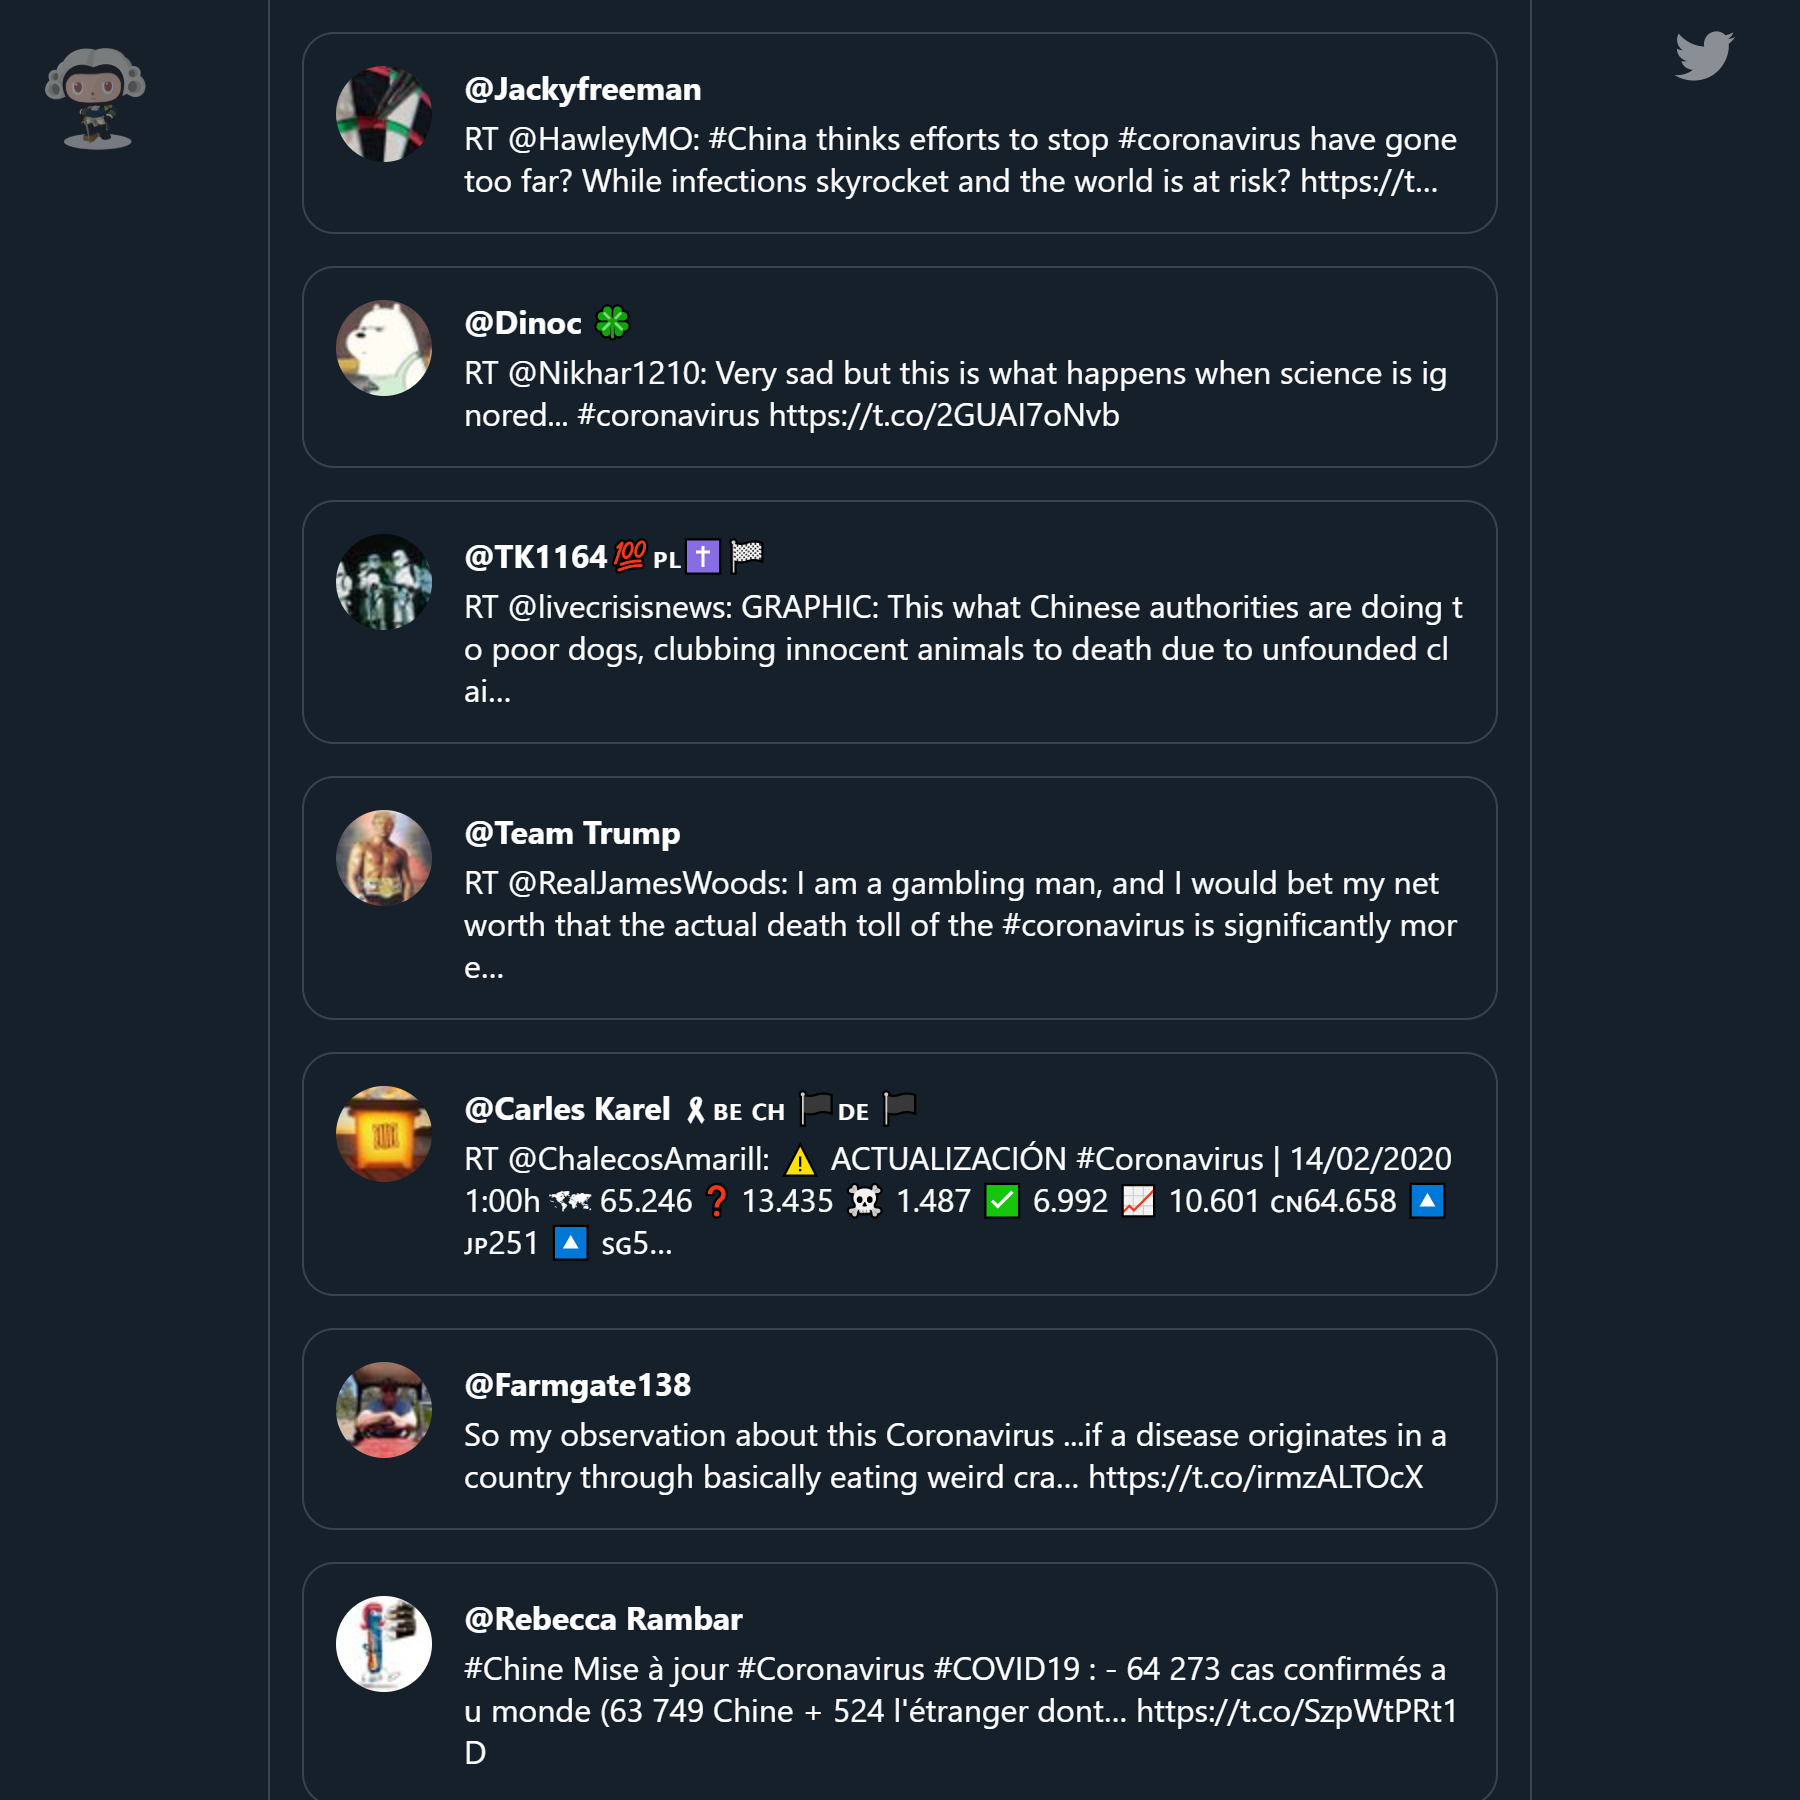
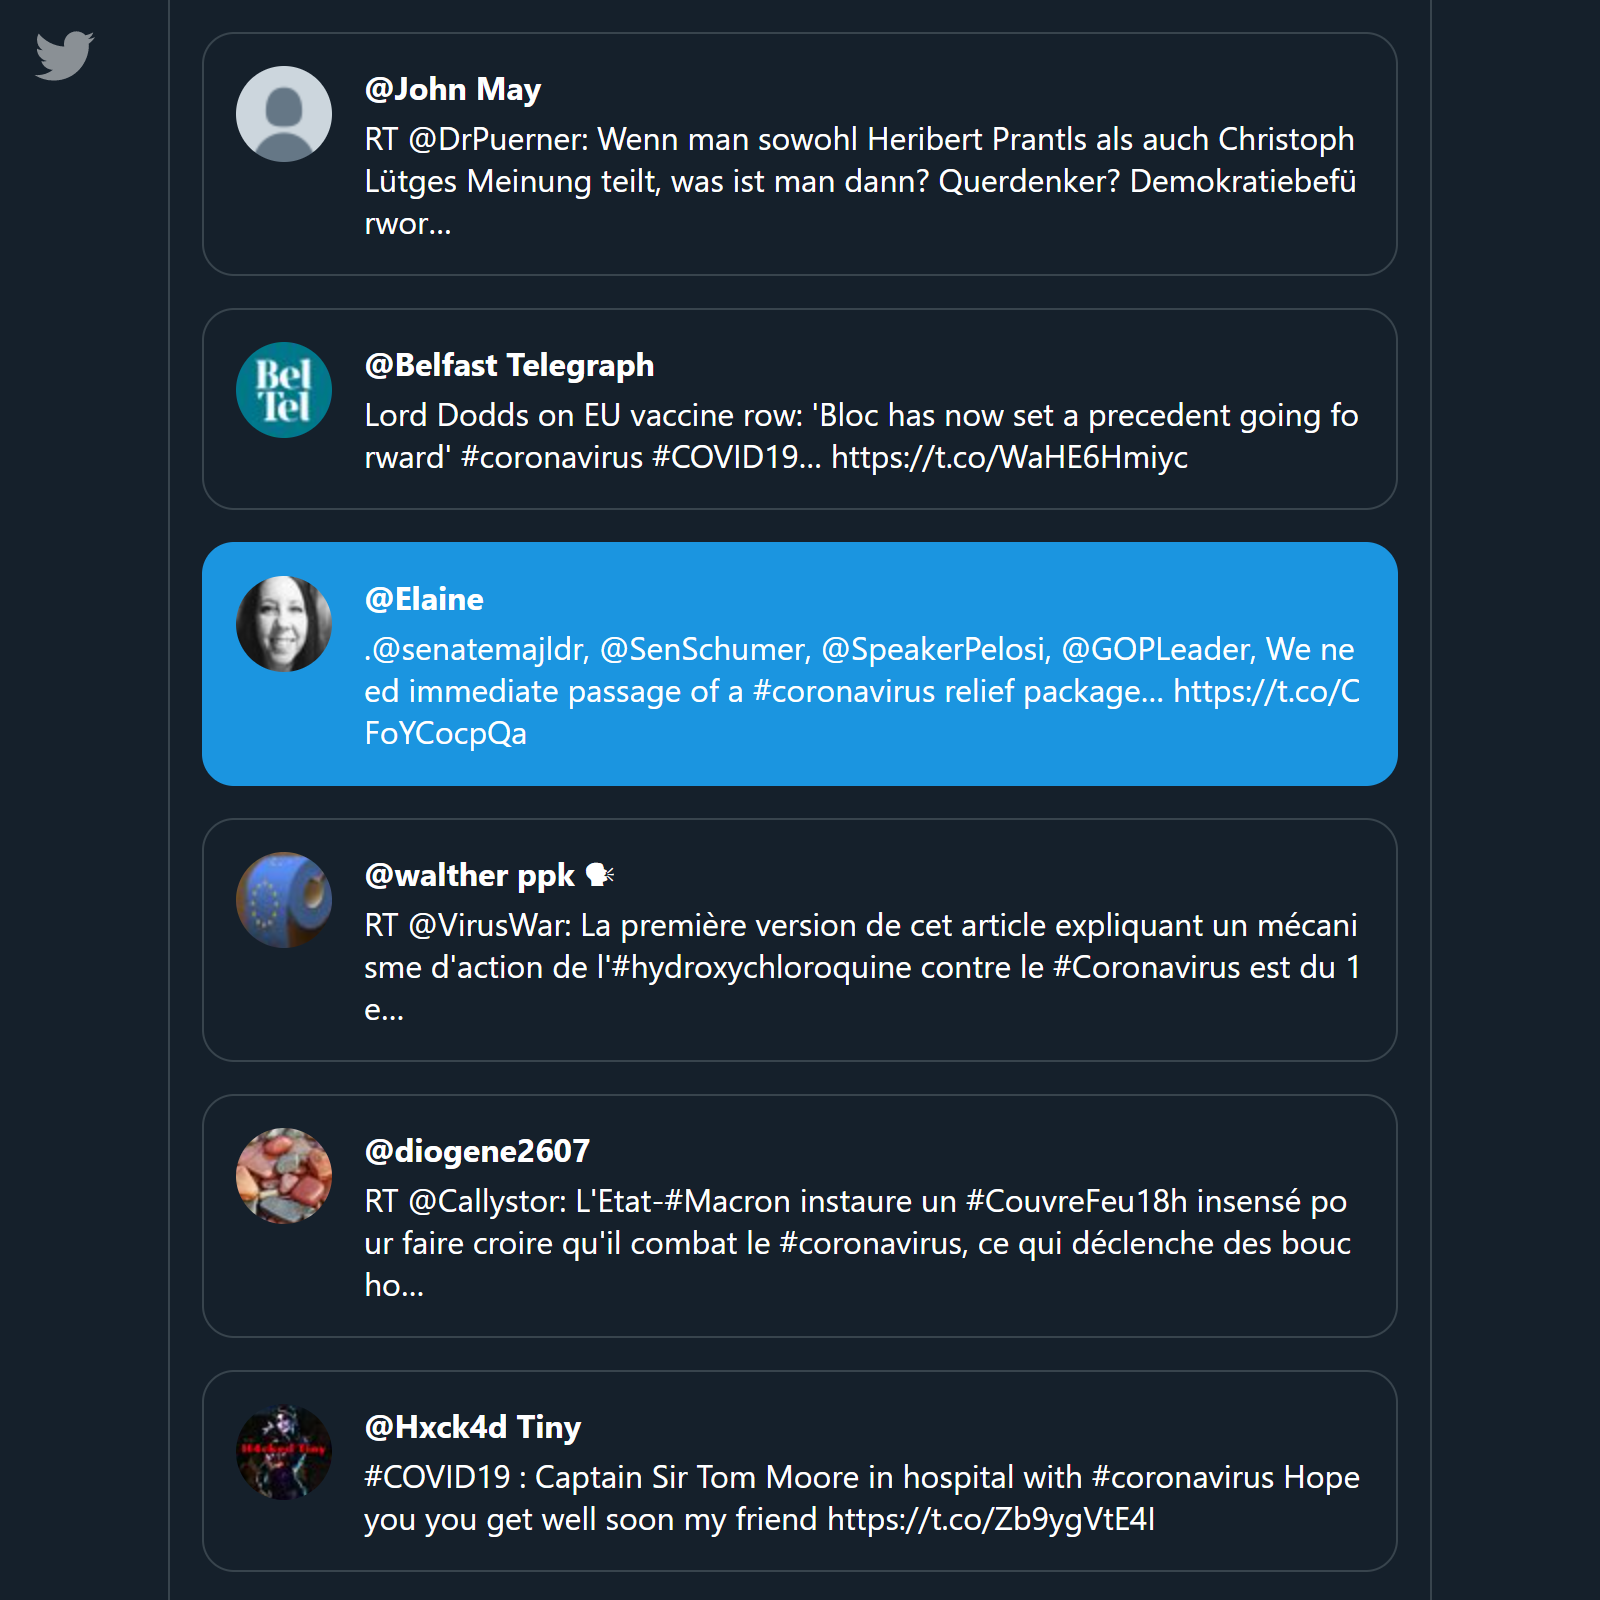
Update App.js

diff --git a/client/src/App.js b/client/src/App.js
@@ -3,10 +3,9 @@ import { useEffectOnce } from 'react-use';
 
 import { useStore } from './store';
 import { parseQueryString } from './utils';
-import { getToken, getTweets } from './api';
+import { getTweets, getTokenUtil, getTweetsUtil } from './api';
 
 import StyledApp from './App.styled';
-import Logo from './components/Logo';
 import Tweet from './components/Tweet';
 import Tweets from './components/Tweets';
 import TwitterLogo from './components/TwitterLogo';
@@ -21,35 +20,25 @@ function App({ initialState }) {
 
   useEffectOnce(() => {
     (async () => {
-      const {
-        data: { access_token: accessToken }
-      } = await getToken();
+      const accessToken = state.token || (await getTokenUtil());
       setToken(accessToken);
-      const {
-        data: {
-          statuses: tweets,
-          search_metadata: { next_results: nextResults }
-        }
-      } = await getTweets({ accessToken });
+      const response = await getTweets({ accessToken });
+      const { tweets, nextResults } = getTweetsUtil(response);
       setTweets({ tweets, nextResults });
     })();
   });
 
-  const handleScroll = async event => {
+  const handleScroll = async (event) => {
     const clientHeight = parseInt(event.target.clientHeight * SCROLL_SCALE);
     const scrollEnd =
       event.target.scrollHeight - event.target.scrollTop <= clientHeight;
     if (scrollEnd && state.nextResults && !state.isLoadingMore) {
       setIsLoadingMore(true);
-      const {
-        data: {
-          statuses: tweets,
-          search_metadata: { next_results: nextResults }
-        }
-      } = await getTweets({
+      const response = await getTweets({
         accessToken: state.token,
-        query: parseQueryString(state.nextResults)
+        query: parseQueryString(state.nextResults),
       });
+      const { tweets, nextResults } = getTweetsUtil(response);
       setIsLoadingMore(false);
       setTweets({ tweets, nextResults });
     }
@@ -57,16 +46,13 @@ function App({ initialState }) {
 
   return (
     <StyledApp onScroll={handleScroll}>
-      <Logo />
       <TwitterLogo />
       {state.isLoadingMore && <SmallLoader />}
       {state.tweets.length ? (
         <Tweets>
-          <React.Fragment>
-            {state.tweets.map(tweet => (
-              <Tweet {...tweet} key={tweet.id} />
-            ))}
-          </React.Fragment>
+          {state.tweets.map((tweet) => (
+            <Tweet {...tweet} key={tweet.id} />
+          ))}
         </Tweets>
       ) : (
         <Loader />

diff --git a/server/routes/token.js b/server/routes/token.js
@@ -7,8 +7,8 @@ var router = express.Router();
 const { TWITTER_OAUTH_API_PATH } = require('../config');
 
 /* GET bearer token */
-router.get('/', async function(req, res, next) {
-  const credentials = `${process.env.CONSUMER_API_KEY}:${process.env.CONSUMER_API_SECRET_KEY}`;
+router.get('/', async function (req, res, next) {
+  const credentials = `${process.env.CONSUMER_API_KEY}:${process.env.CONSUMER_API_KEY_SECRET}`;
   const credentialsBase64Encoded = new Buffer(credentials).toString('base64');
   try {
     const { data } = await axios({
@@ -16,9 +16,9 @@ router.get('/', async function(req, res, next) {
       method: 'post',
       headers: {
         Authorization: `Basic ${credentialsBase64Encoded}`,
-        'Content-Type': 'application/x-www-form-urlencoded;charset=UTF-8'
+        'Content-Type': 'application/x-www-form-urlencoded;charset=UTF-8',
       },
-      data: 'grant_type=client_credentials'
+      data: 'grant_type=client_credentials',
     });
     res.send(data);
   } catch (err) {

diff --git a/client/src/api.js b/client/src/api.js
@@ -7,12 +7,29 @@ export const getToken = () => axios.get(`${BASE_URL}/token`);
 export const getTweets = ({ accessToken, query, limit = 20 } = {}) =>
   axios.get(`${BASE_URL}/tweets`, {
     headers: {
-      Authorization: `Bearer ${accessToken}`
+      Authorization: `Bearer ${accessToken}`,
     },
     params: {
       q: '#coronavirus',
       include_entities: true,
       count: limit,
-      ...query
-    }
+      ...query,
+    },
   });
+
+export async function getTokenUtil() {
+  const {
+    data: { access_token: accessToken },
+  } = await getToken();
+  return accessToken;
+}
+
+export function getTweetsUtil(response) {
+  const {
+    data: {
+      statuses: tweets,
+      search_metadata: { next_results: nextResults },
+    },
+  } = response;
+  return { tweets, nextResults };
+}

diff --git a/client/src/components/Loader.js b/client/src/components/Loader.js
@@ -9,7 +9,7 @@ const StyledLoader = styled.div`
 
 const Loader = () => (
   <StyledLoader>
-    <CircularProgress size={100} color="inherit" />
+    <CircularProgress size={80} color="inherit" />
   </StyledLoader>
 );
 
@@ -23,7 +23,7 @@ const StyledSmallLoader = styled(StyledLoader)`
 
 export const SmallLoader = () => (
   <StyledSmallLoader>
-    <CircularProgress size={25} color="inherit" />
+    <CircularProgress size={40} color="inherit" />
   </StyledSmallLoader>
 );
 

diff --git a/server/config.js b/server/config.js
@@ -1,2 +1,4 @@
-export const TWITTER_API_PATH = 'https://api.twitter.com/1.1';
-export const TWITTER_OAUTH_API_PATH = 'https://api.twitter.com/oauth2';
+const TWITTER_API_PATH = 'https://api.twitter.com/1.1';
+const TWITTER_OAUTH_API_PATH = 'https://api.twitter.com/oauth2';
+
+module.exports = { TWITTER_API_PATH, TWITTER_OAUTH_API_PATH };

diff --git a/client/src/components/TwitterLogo.js b/client/src/components/TwitterLogo.js
@@ -11,12 +11,12 @@ const TwitterLogoSvg = () => (
 
 const StyledTwitterLogo = styled.div`
   top: 0;
-  right: 0;
+  left: 0;
   width: 2rem;
   opacity: 0.5;
   color: #ffffff;
   position: fixed;
-  margin-right: 2rem;
+  margin-left: 1rem;
   margin-top: 0.75rem;
   transition: opacity 0.5s;
 
